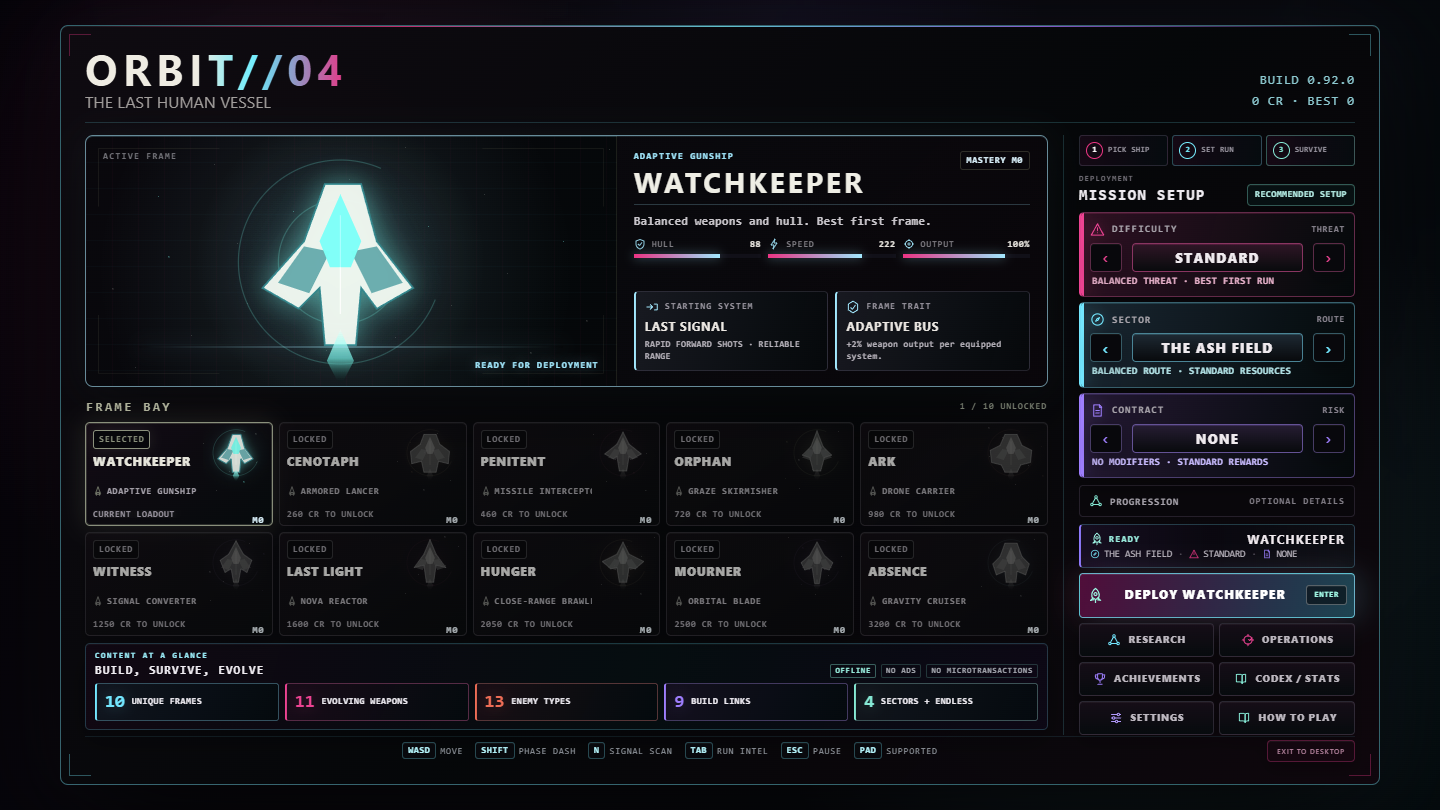
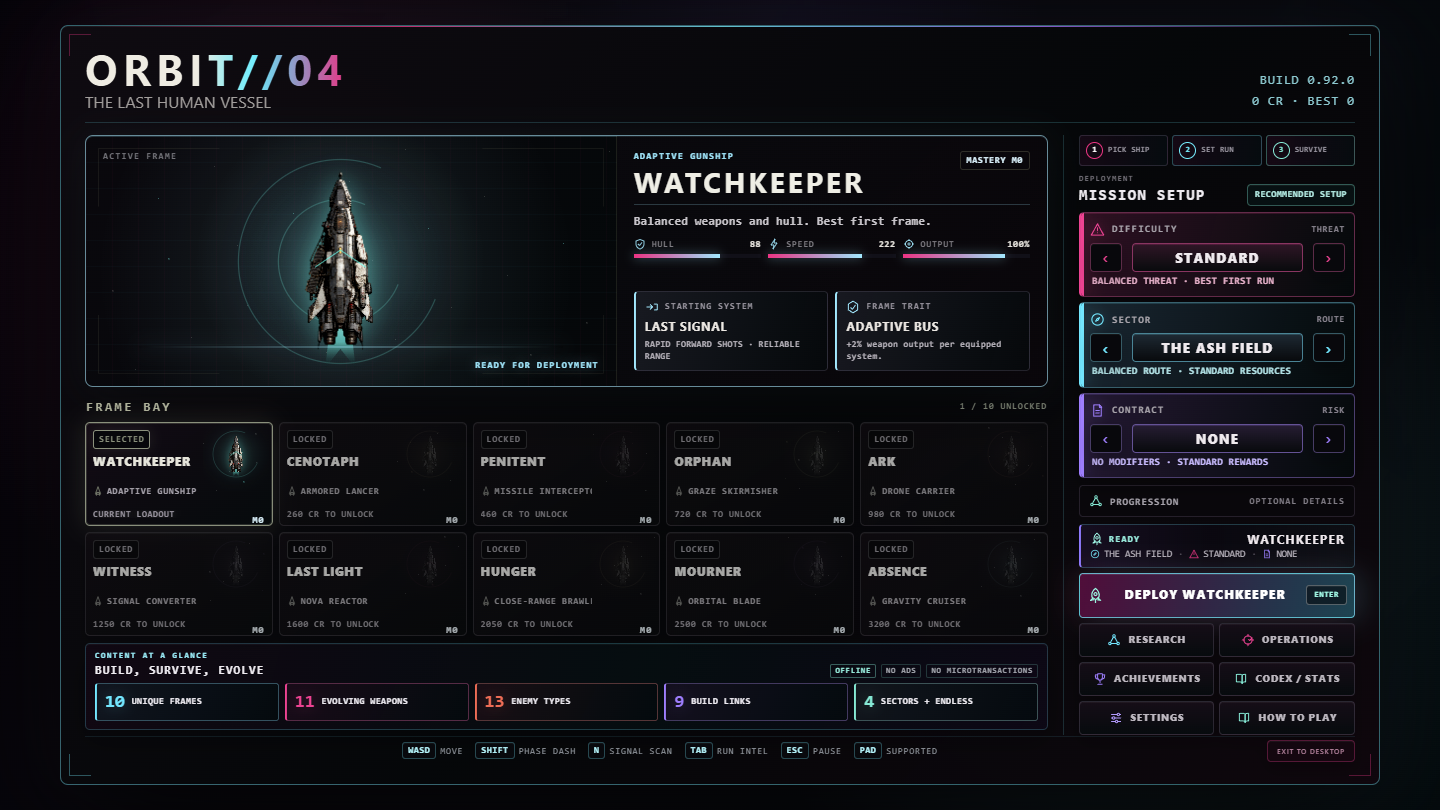
fix: match hangar preview to deployed hull

diff --git a/game.js b/game.js
@@ -437,27 +437,37 @@ const HANGAR_PALETTES={
   vector:{main:'#d6bcc6',edge:'#9c234c',accent:'#ff236d'},talon:{main:'#d5c8ae',edge:'#8d6925',accent:'#ffc13d'},
   halo:{main:'#cabfd3',edge:'#6d438c',accent:'#c167ff'},event:{main:'#c5d0cc',edge:'#13727b',accent:'#29e4f2'}
 };
+const HANGAR_HULL_ASSET=ENGINE_ASSETS.player;
+let hangarHullImage=null,hangarHullImageReady=false,hangarHullImageFailed=false,hangarHullRefreshQueued=false;
 const hangarShipPalette=id=>HANGAR_PALETTES[id]||HANGAR_PALETTES.striker;
 const uiIconMarkup=name=>`<svg class="uiIcon" aria-hidden="true"><use href="#icon-${name}"/></svg>`;
+function ensureHangarHullImage(){
+  if(hangarHullImage||hangarHullImageFailed||typeof Image!=='function')return hangarHullImageReady;
+  hangarHullImage=new Image();hangarHullImage.decoding='async';
+  hangarHullImage.addEventListener('load',()=>{hangarHullImageReady=true;if(!hangarHullRefreshQueued&&typeof requestAnimationFrame==='function'){hangarHullRefreshQueued=true;requestAnimationFrame(()=>{hangarHullRefreshQueued=false;if($('titleScreen')?.classList.contains('show'))renderMenu()})}}, {once:true});
+  hangarHullImage.addEventListener('error',()=>{hangarHullImageFailed=true;hangarHullImage=null}, {once:true});
+  hangarHullImage.src=HANGAR_HULL_ASSET;return false;
+}
 function renderShipCanvas(canvas,id,large=false,locked=false){
-  if(!canvas||typeof canvas.getContext!=='function')return false;
+  if(!canvas)return false;
+  canvas.dataset.shipAsset=HANGAR_HULL_ASSET;canvas.dataset.frame=id;canvas.dataset.previewSource='runtime-player-hull';
+  if(typeof canvas.getContext!=='function')return false;
   const ctx=canvas.getContext('2d');if(!ctx)return false;
   const cssWidth=canvas.clientWidth||(large?520:150),cssHeight=canvas.clientHeight||(large?300:78),dpr=Math.min(2,window.devicePixelRatio||1);
   canvas.width=Math.round(cssWidth*dpr);canvas.height=Math.round(cssHeight*dpr);ctx.setTransform(dpr,0,0,dpr,0,0);ctx.clearRect(0,0,cssWidth,cssHeight);
   const pal=hangarShipPalette(id),hex=(value,alpha)=>{const raw=value.replace('#','');const n=parseInt(raw.length===3?raw.split('').map(x=>x+x).join(''):raw,16);return `rgba(${n>>16},${n>>8&255},${n&255},${alpha})`};
-  const seed=[...id].reduce((sum,ch)=>sum+ch.charCodeAt(0),0),cx=cssWidth*(large?.48:.5),cy=cssHeight*(large?.52:.42),scale=large?5.2:1.22;
+  const seed=[...id].reduce((sum,ch)=>sum+ch.charCodeAt(0),0),cx=cssWidth*(large?.48:.5),cy=cssHeight*(large?.51:.44);
   const glow=ctx.createRadialGradient(cx,cy,0,cx,cy,large?cssHeight*.48:cssHeight*.65);glow.addColorStop(0,hex(pal.accent,locked?.05:.18));glow.addColorStop(1,'rgba(0,0,0,0)');ctx.fillStyle=glow;ctx.fillRect(0,0,cssWidth,cssHeight);
   ctx.save();ctx.strokeStyle=hex(pal.accent,locked?.08:.20);ctx.lineWidth=large?1.2:.7;for(const radius of large?[62,102]:[23]){ctx.beginPath();ctx.arc(cx,cy,radius,Math.PI*.12,Math.PI*1.63);ctx.stroke()}ctx.restore();
   const stars=large?24:7;for(let i=0;i<stars;i++){const x=(seed*31+i*79)%Math.max(1,Math.floor(cssWidth)),y=(seed*17+i*47)%Math.max(1,Math.floor(cssHeight));ctx.fillStyle=i%5===0?hex(pal.accent,locked?.09:.34):'rgba(210,216,206,.16)';ctx.fillRect(x,y,i%6===0?1.5:1,i%6===0?1.5:1)}
-  const shape=SHIP_SHAPES[id]||SHIP_SHAPES.striker,points=shape.map(([x,y])=>[cx+x*scale,cy+y*scale]);
-  const path=pts=>{ctx.beginPath();pts.forEach(([x,y],index)=>index?ctx.lineTo(x,y):ctx.moveTo(x,y));ctx.closePath()};
-  ctx.save();ctx.shadowColor=hex(pal.accent,locked?.05:.46);ctx.shadowBlur=large?28:10;path(points);ctx.fillStyle=locked?'rgba(76,79,74,.72)':hex(pal.main,.96);ctx.fill();ctx.shadowBlur=0;ctx.strokeStyle=locked?'rgba(132,136,129,.42)':hex(pal.edge,.92);ctx.lineWidth=large?1.8:1;ctx.stroke();ctx.restore();
-  const panel=(coords,fill)=>{path(coords.map(([x,y])=>[cx+x*scale,cy+y*scale]));ctx.fillStyle=fill;ctx.fill()};
-  panel([[-2,-2],[-7,-3],[-12,4],[-6,6]],locked?'rgba(90,93,87,.48)':hex(pal.edge,.62));panel([[2,-2],[7,-3],[12,4],[6,6]],locked?'rgba(90,93,87,.48)':hex(pal.edge,.62));
-  panel([[0,-13],[4,-4],[2,1],[-2,1],[-4,-4]],locked?'rgba(120,122,115,.55)':hex(pal.accent,.94));
-  ctx.strokeStyle=locked?'rgba(185,185,175,.18)':'rgba(255,255,246,.33)';ctx.lineWidth=large?1.2:.65;ctx.beginPath();ctx.moveTo(cx,cy-9*scale);ctx.lineTo(cx,cy+10*scale);ctx.stroke();
-  const flame=ctx.createLinearGradient(cx,cy+13*scale,cx,cy+24*scale);flame.addColorStop(0,locked?'rgba(110,111,105,.35)':hex(pal.main,.9));flame.addColorStop(.5,locked?'rgba(88,89,83,.22)':hex(pal.accent,.62));flame.addColorStop(1,'rgba(0,0,0,0)');panel([[0,13],[-2.6,19],[0,24],[2.6,19]],flame);
-  return true;
+  const ready=ensureHangarHullImage(),shipHeight=cssHeight*(large?.76:.72),assetAspect=ready&&hangarHullImage.naturalHeight?hangarHullImage.naturalWidth/hangarHullImage.naturalHeight:2/3,shipWidth=Math.min(shipHeight*assetAspect,cssWidth*(large?.35:.42)),drawHeight=shipWidth/assetAspect,shipX=cx-shipWidth/2,shipY=cy-drawHeight/2;
+  if(ready){
+    const flame=ctx.createLinearGradient(cx,shipY+drawHeight*.78,cx,shipY+drawHeight*1.08);flame.addColorStop(0,locked?'rgba(110,111,105,.25)':hex(pal.main,.72));flame.addColorStop(.48,locked?'rgba(88,89,83,.15)':hex(pal.accent,.52));flame.addColorStop(1,'rgba(0,0,0,0)');ctx.fillStyle=flame;ctx.beginPath();ctx.moveTo(cx-shipWidth*.07,shipY+drawHeight*.77);ctx.lineTo(cx-shipWidth*.12,shipY+drawHeight*1.06);ctx.lineTo(cx,shipY+drawHeight*.96);ctx.lineTo(cx+shipWidth*.12,shipY+drawHeight*1.06);ctx.lineTo(cx+shipWidth*.07,shipY+drawHeight*.77);ctx.closePath();ctx.fill();
+    ctx.save();ctx.globalAlpha=locked?.34:1;ctx.filter=locked?'grayscale(1) brightness(.58)':'none';ctx.shadowColor=hex(pal.accent,locked?.04:.38);ctx.shadowBlur=large?24:9;ctx.drawImage(hangarHullImage,shipX,shipY,shipWidth,drawHeight);ctx.restore();
+    ctx.save();ctx.strokeStyle=hex(pal.accent,locked?.08:.58);ctx.lineWidth=large?1.25:.7;ctx.beginPath();ctx.moveTo(cx-shipWidth*.20,shipY+drawHeight*.53);ctx.lineTo(cx,shipY+drawHeight*.44);ctx.lineTo(cx+shipWidth*.20,shipY+drawHeight*.53);ctx.stroke();ctx.restore();
+    return true;
+  }
+  ctx.save();ctx.fillStyle=locked?'rgba(151,155,147,.34)':hex(pal.accent,.64);ctx.font=`600 ${large?11:7}px ui-monospace, monospace`;ctx.textAlign='center';ctx.textBaseline='middle';ctx.fillText(hangarHullImageFailed?'HULL ASSET OFFLINE':'LOADING HULL',cx,cy);ctx.restore();return false;
 }
 function renderFrameBrief(id){
   const s=SHIPS[id]||SHIPS.striker,w=WEAPON_META[s.weapon],mastery=masteryLevel(id),pal=hangarShipPalette(id);

diff --git a/tests/smoke.js b/tests/smoke.js
@@ -39,6 +39,7 @@ vm.runInContext(`
   if(rendererConfig?.type!==Phaser.WEBGL) throw new Error('renderer type must be explicit when using a custom canvas');
   if(!rendererConfig.render.antialiasGL||!rendererConfig.render.desynchronized||rendererConfig.fps.target!==120) throw new Error('premium renderer profile is incomplete');
   save.settings.audio='OFF';document.getElementById('difficultyPrev').onclick();if(save.difficulty!=='HARDLINE') throw new Error('previous difficulty control failed');document.getElementById('difficultyNext').onclick();if(save.difficulty!=='STANDARD') throw new Error('next difficulty control failed');document.getElementById('contractPrev').onclick();if(save.contract!=='FRAGILE') throw new Error('previous contract control failed');document.getElementById('contractNext').onclick();if(save.contract!=='NONE') throw new Error('next contract control failed');if(!document.getElementById('launchSummary').innerHTML.includes('WATCHKEEPER')||!document.getElementById('startBtn').innerHTML.includes('DEPLOY WATCHKEEPER')||!document.getElementById('startBtn').innerHTML.includes('ENTER')) throw new Error('deployment summary is incomplete');if(Number(document.getElementById('contentFrameCount').textContent)!==10||Number(document.getElementById('contentWeaponCount').textContent)!==11||Number(document.getElementById('contentEnemyCount').textContent)!==13||Number(document.getElementById('contentLinkCount').textContent)!==9||Number(document.getElementById('contentSectorCount').textContent)!==4)throw new Error('menu content proof does not match runtime data');save.difficulty='BLACKOUT';save.sector='NULL';save.contract='SWARM';if(!applyRecommendedSetup()||save.difficulty!=='STANDARD'||save.sector!=='AURORA'||save.contract!=='NONE')throw new Error('recommended first-run setup failed');save.briefingSeen=false;if(!previewPilotBriefing()||!document.getElementById('briefingScreen').classList.contains('show')||!dismissPilotBriefing()||document.getElementById('briefingScreen').classList.contains('show')||!save.briefingSeen)throw new Error('menu pilot guide preview failed');if(!document.getElementById('framePrevBtn').disabled||!document.getElementById('frameNextBtn').disabled)throw new Error('single-frame hangar navigation should be disabled');save.unlocked.push('bastion');if(!cycleUnlockedFrame(1)||save.selected!=='bastion')throw new Error('next-frame hangar shortcut failed');if(!cycleUnlockedFrame(-1)||save.selected!=='striker')throw new Error('previous-frame hangar shortcut failed');save.unlocked.pop();renderMenu();
+  if(document.getElementById('framePreview').dataset.shipAsset!==ENGINE_ASSETS.player||document.getElementById('framePreview').dataset.previewSource!=='runtime-player-hull'||document.getElementById('framePreview').dataset.frame!==save.selected)throw new Error('hangar preview is not bound to the deployed player hull');
   if(!document.getElementById('difficultyDesc').textContent.includes('BEST FIRST RUN')||!document.getElementById('sectorDesc').textContent.includes('STANDARD RESOURCES')||!document.getElementById('frameWeaponDesc').textContent.includes('RAPID FORWARD SHOTS'))throw new Error('main menu info boxes do not explain player outcomes');
   if(selectFieldDirective()!=='recovery') throw new Error('first directive rotation is incorrect');save.runs=1;if(selectFieldDirective()!=='transit') throw new Error('second directive rotation is incorrect');save.runs=2;if(selectFieldDirective()!=='attrition') throw new Error('third directive rotation is incorrect');save.runs=0;startRun();
   save.briefingSeen=false;if(!openPilotBriefing()||!state.paused||!document.getElementById('briefingScreen').classList.contains('show'))throw new Error('first-deployment briefing did not suspend the run');if(!dismissPilotBriefing()||state.paused||!save.briefingSeen||document.getElementById('briefingScreen').classList.contains('show'))throw new Error('first-deployment briefing did not persist completion');
